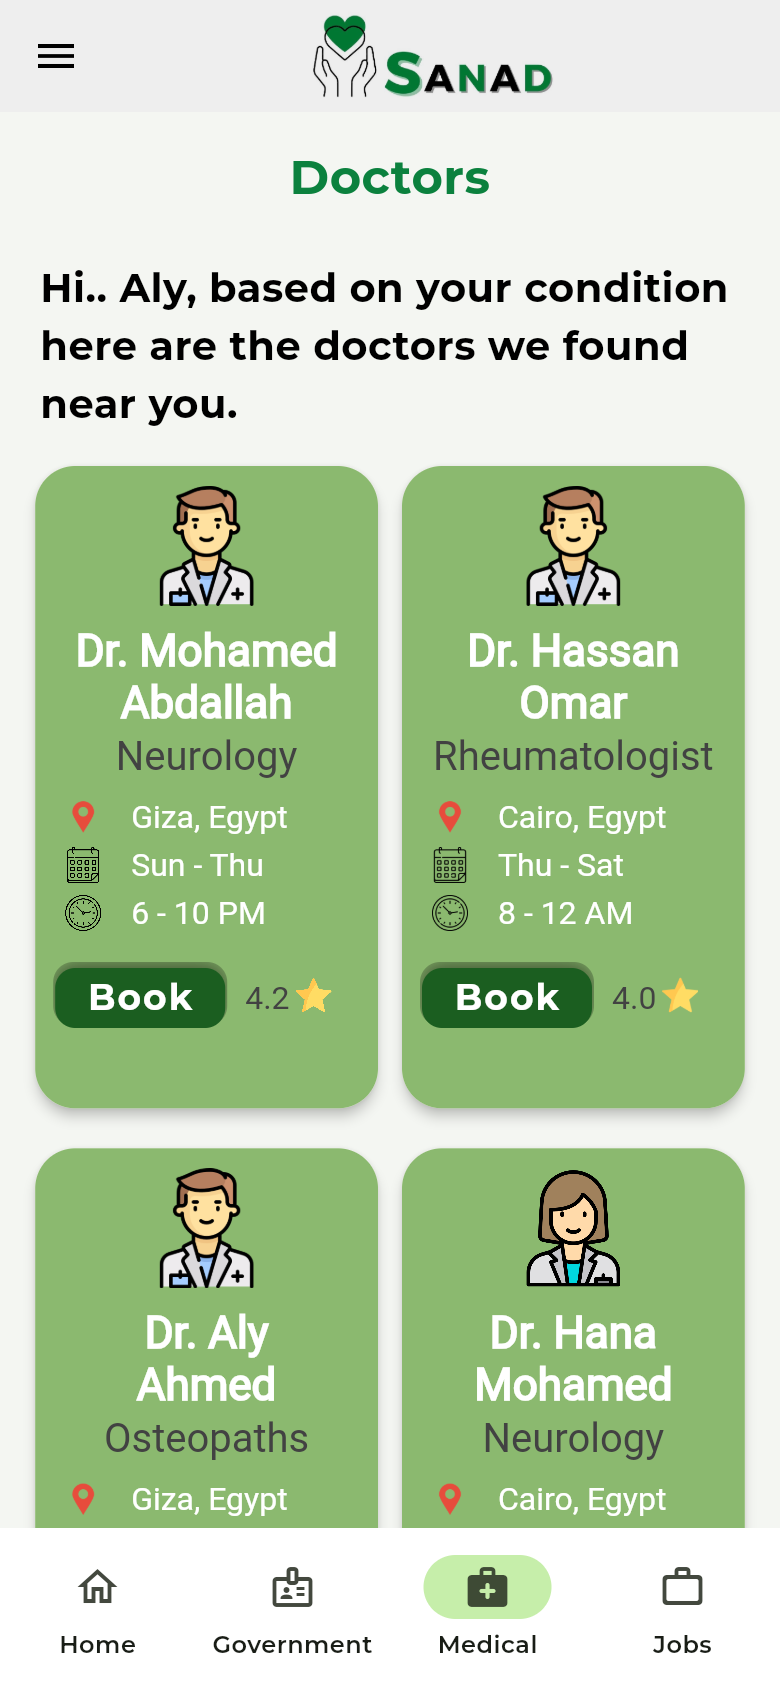
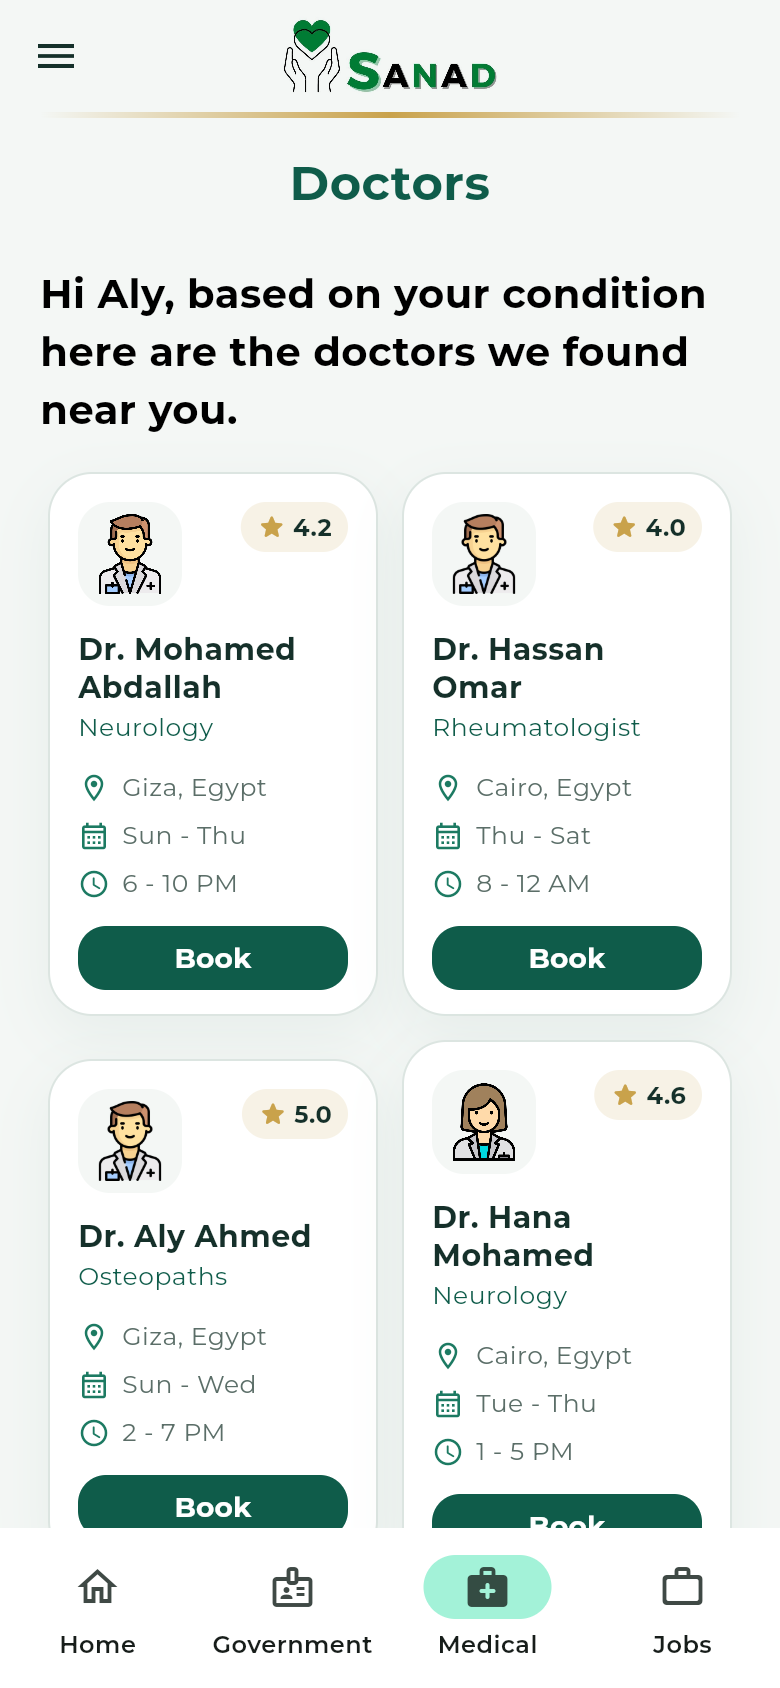
Show SANAD's new design

diff --git a/src/content.ts b/src/content.ts
@@ -257,7 +257,7 @@ export const projects: Project[] = [
     approach:
       "A Flutter app with one catalog for government, medical and job services, shared booking flows with date and time pickers, and Material 3 navigation between sections.",
     outcome:
-      "Revived in 2026: upgraded from Dart 2 to current Flutter, replaced discontinued packages, fixed sign-out and navigation, and added tests and CI.",
+      "Revived in 2026: upgraded from Dart 2 to current Flutter, redesigned in an emerald and gold government style, fixed sign-out and navigation, and added tests, CI and a web demo.",
     highlights: [
       "ID renewal and integrated services card requests",
       "Doctors, hospitals, radiology and physiotherapy with booking",
